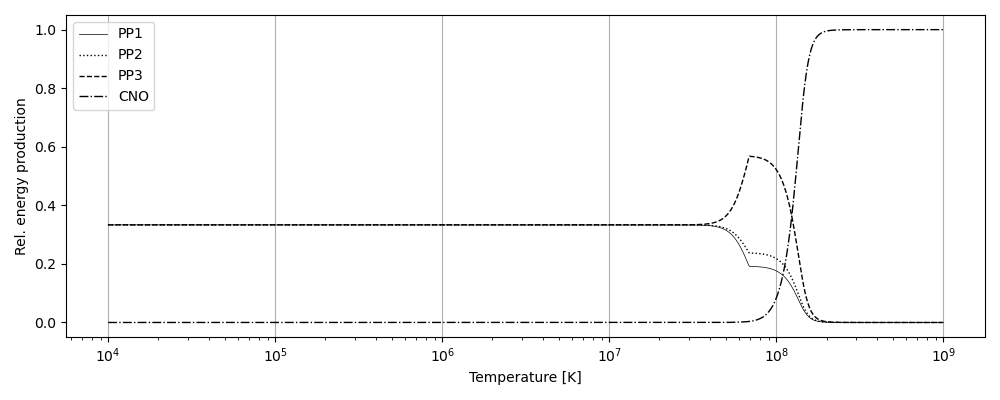
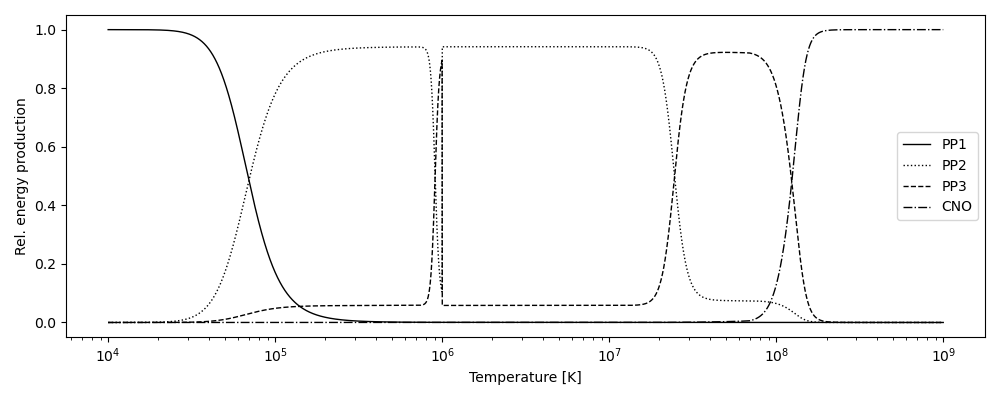
Fixed the error, now only error is that PP3 should be at ca .2 in the rel_energy

diff --git a/project-1/energy_production.py b/project-1/energy_production.py
@@ -141,8 +141,8 @@ class EnergyProduction:
 		r_ik = self.r(n_i, n_k, lmbda, density)
 		eps = r_ik * (Q_i + Q_k)
 
-		PP0_array[0] = eps
-		r_array[0] = r_ik
+		self.PP0[0] = eps
+		self.r_PP0[0] = r_ik
 
 	########################################################################################################	
 
@@ -176,14 +176,14 @@ class EnergyProduction:
 		Q_ik = np.array([self.Q['34'], self.Q['e7'], self.Q['17_mark']])	# Energy releases of the fusion reactions 
 		lmbda_ik = np.array([lmbda['34'], lmbda['e7'], lmbda['17_mark']])	# Reaction rates for the PP2 branch
 
-		N_A = const.N_A * 1e-6
+		N_A = const.N_A * 1e6
 
 		'''
 		Setting the upper limit for T < 10^6 K
 		'''
 		PP2_array[0] = self.PP0[0]
 
-		if  temperature < 1e6 and lmbda_ik[1] > 1.57e-7 / (n_k[1] * N_A):
+		if  temperature < 1e6:
 
 			lmbda_ik[1] = 1.57e-7 / (n_k[1] * N_A)
 
@@ -348,6 +348,13 @@ class EnergyProduction:
 		self.cno(r_CNO, CNO, temperature, density)
 		self.limit_production_rate(r_PP0, r_PP1, r_PP2, r_PP3, PP0, PP1, PP2, PP3)
 
+		'''
+		Fixing the energy gained from the PP0 reaction in each of the branches.
+		'''
+		self.PP1[0] = self.PP0[0] * self.r_PP1[0] / (2 * self.r_PP0[0])
+		self.PP2[0] = self.PP0[0] * self.r_PP2[1] / (self.r_PP0[0])
+		self.PP3[0] = self.PP0[0] * self.r_PP3[1] / (self.r_PP0[0])
+
 	########################################################################################################	
 
 	def sanity_check(self):
@@ -404,9 +411,10 @@ class EnergyProduction:
 ########################################################################################################
 
 if __name__ == '__main__':
+
 	'''
 	Performing the sanity check.
 	'''
-	test = EnergyProduction(0, 0)
+	test = EnergyProduction(1e9, 1.62e5)
 	test.sanity_check()
 	

diff --git a/project-1/rel_energy.py b/project-1/rel_energy.py
@@ -10,7 +10,7 @@ from energy_production import EnergyProduction
 For the relative energy we will use temperature from 10^4 to 10^9 K.
 '''
 rho_sun = 1.62e5	# Sun density [kgm^-3]
-N_steps = 1001 		# No. of points to solve for 
+N_steps = 10001 	# No. of points to solve for 
 
 T = np.logspace(4, 9, N_steps)			# Temperature range [K]
 E_rel = np.zeros((4, N_steps))			# Array to contain the rel. energies
@@ -33,7 +33,7 @@ for i in range(N_steps):
 
 plt.figure(figsize=(10, 4))
 
-plt.plot(T, E_rel[0, :], lw=.5, ls='solid', color='black', label='PP1')
+plt.plot(T, E_rel[0, :], lw=1, ls='solid', color='black', label='PP1')
 plt.plot(T, E_rel[1, :], lw=1, ls='dotted', color='black', label='PP2')
 plt.plot(T, E_rel[2, :], lw=1, ls='dashed', color='black', label='PP3')
 plt.plot(T, E_rel[3, :], lw=1, ls='dashdot', color='black', label='CNO')
@@ -43,7 +43,7 @@ plt.xlabel('Temperature [K]')
 plt.ylabel('Rel. energy production')
 plt.legend()
 
-plt.grid(True, axis='x')
+# plt.grid(True, axis='x')
 plt.tight_layout()
 plt.savefig('figures/rel-energy-prod.pdf')
 plt.savefig('figures/rel-energy-prod.png')
